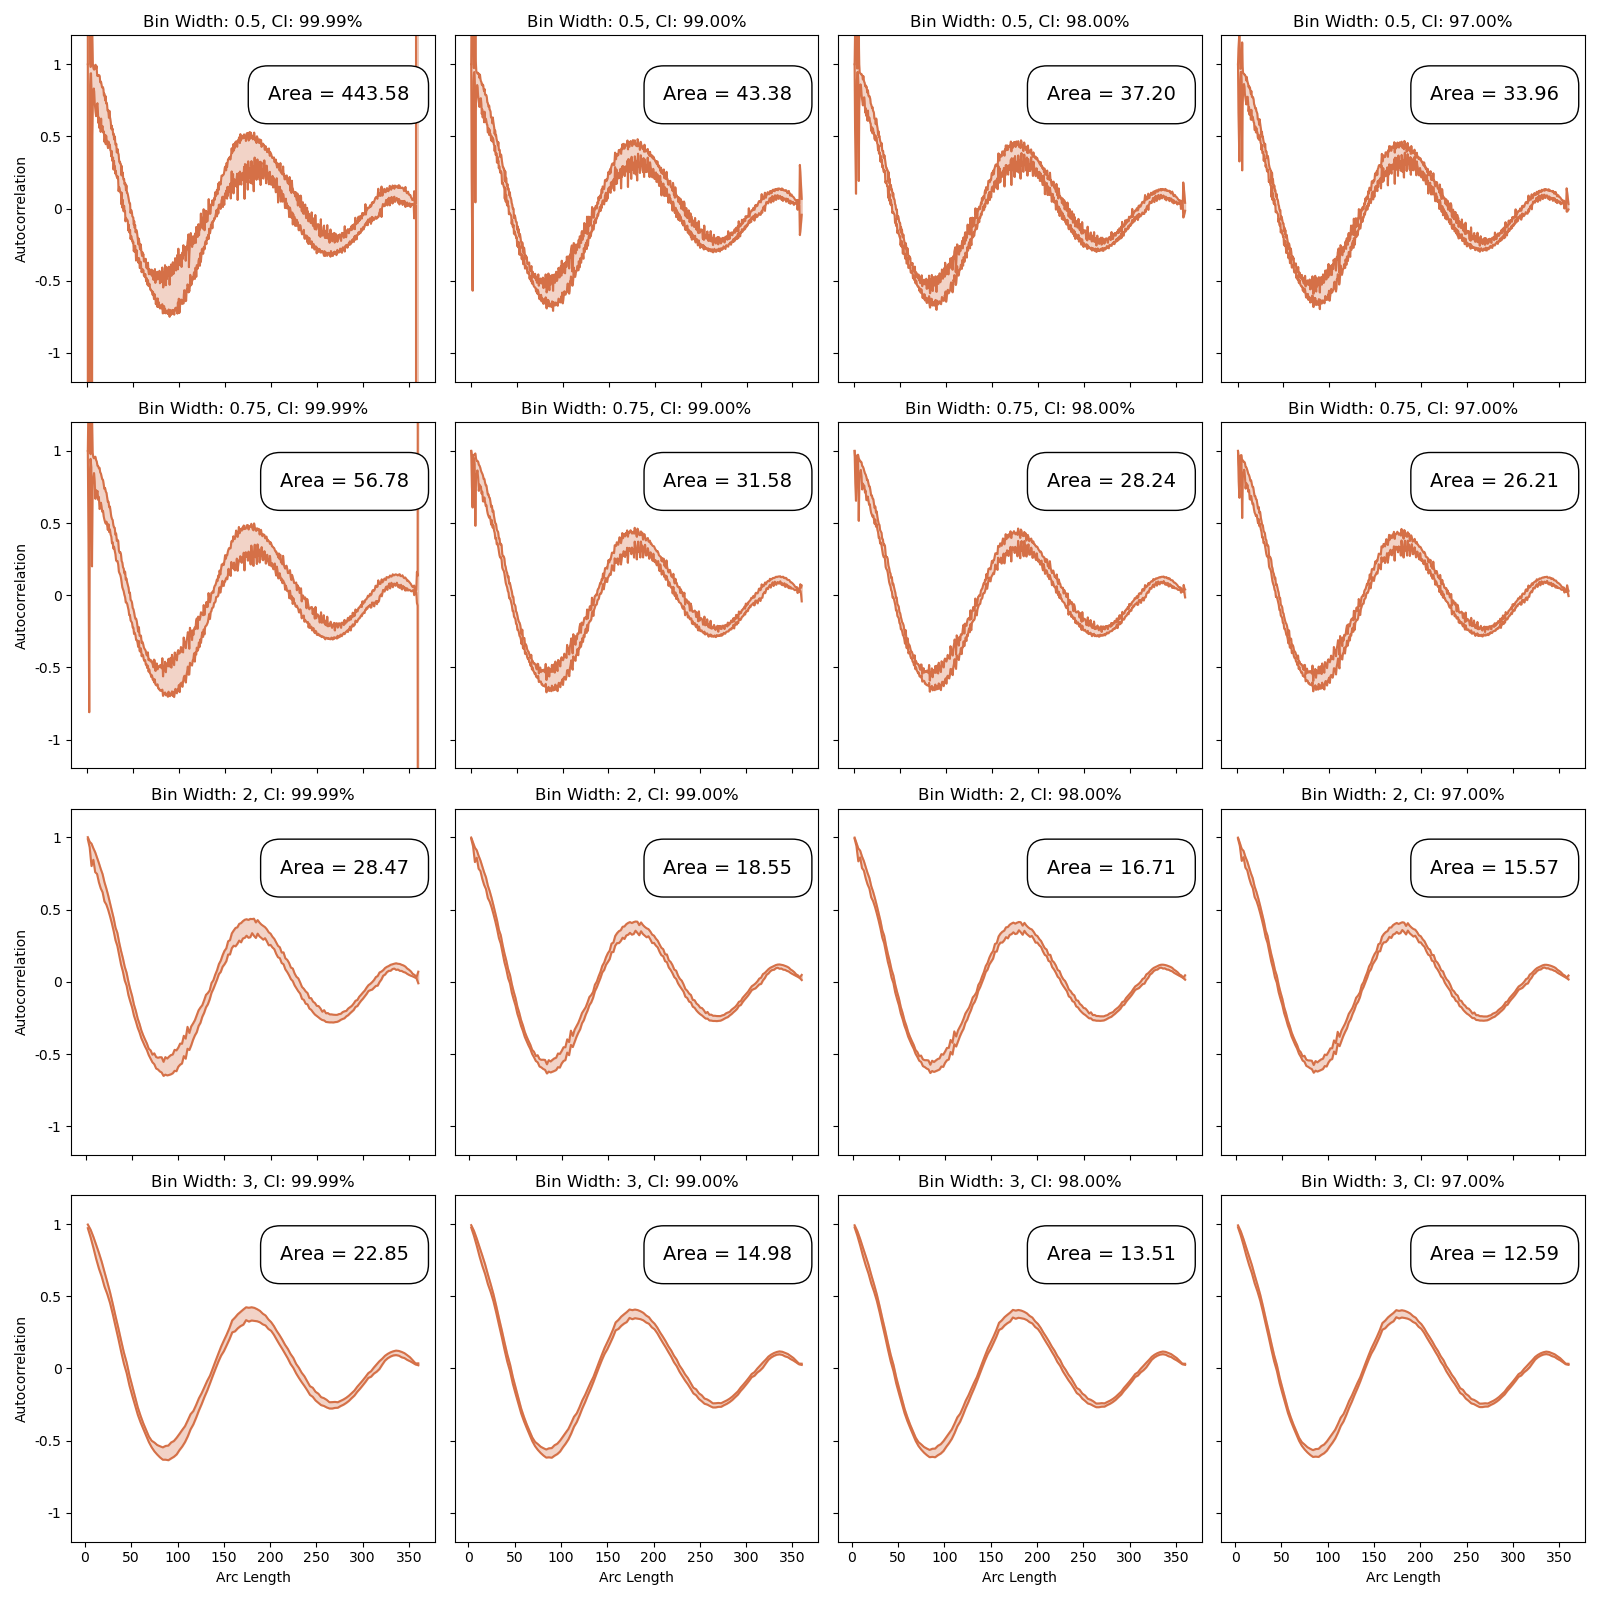
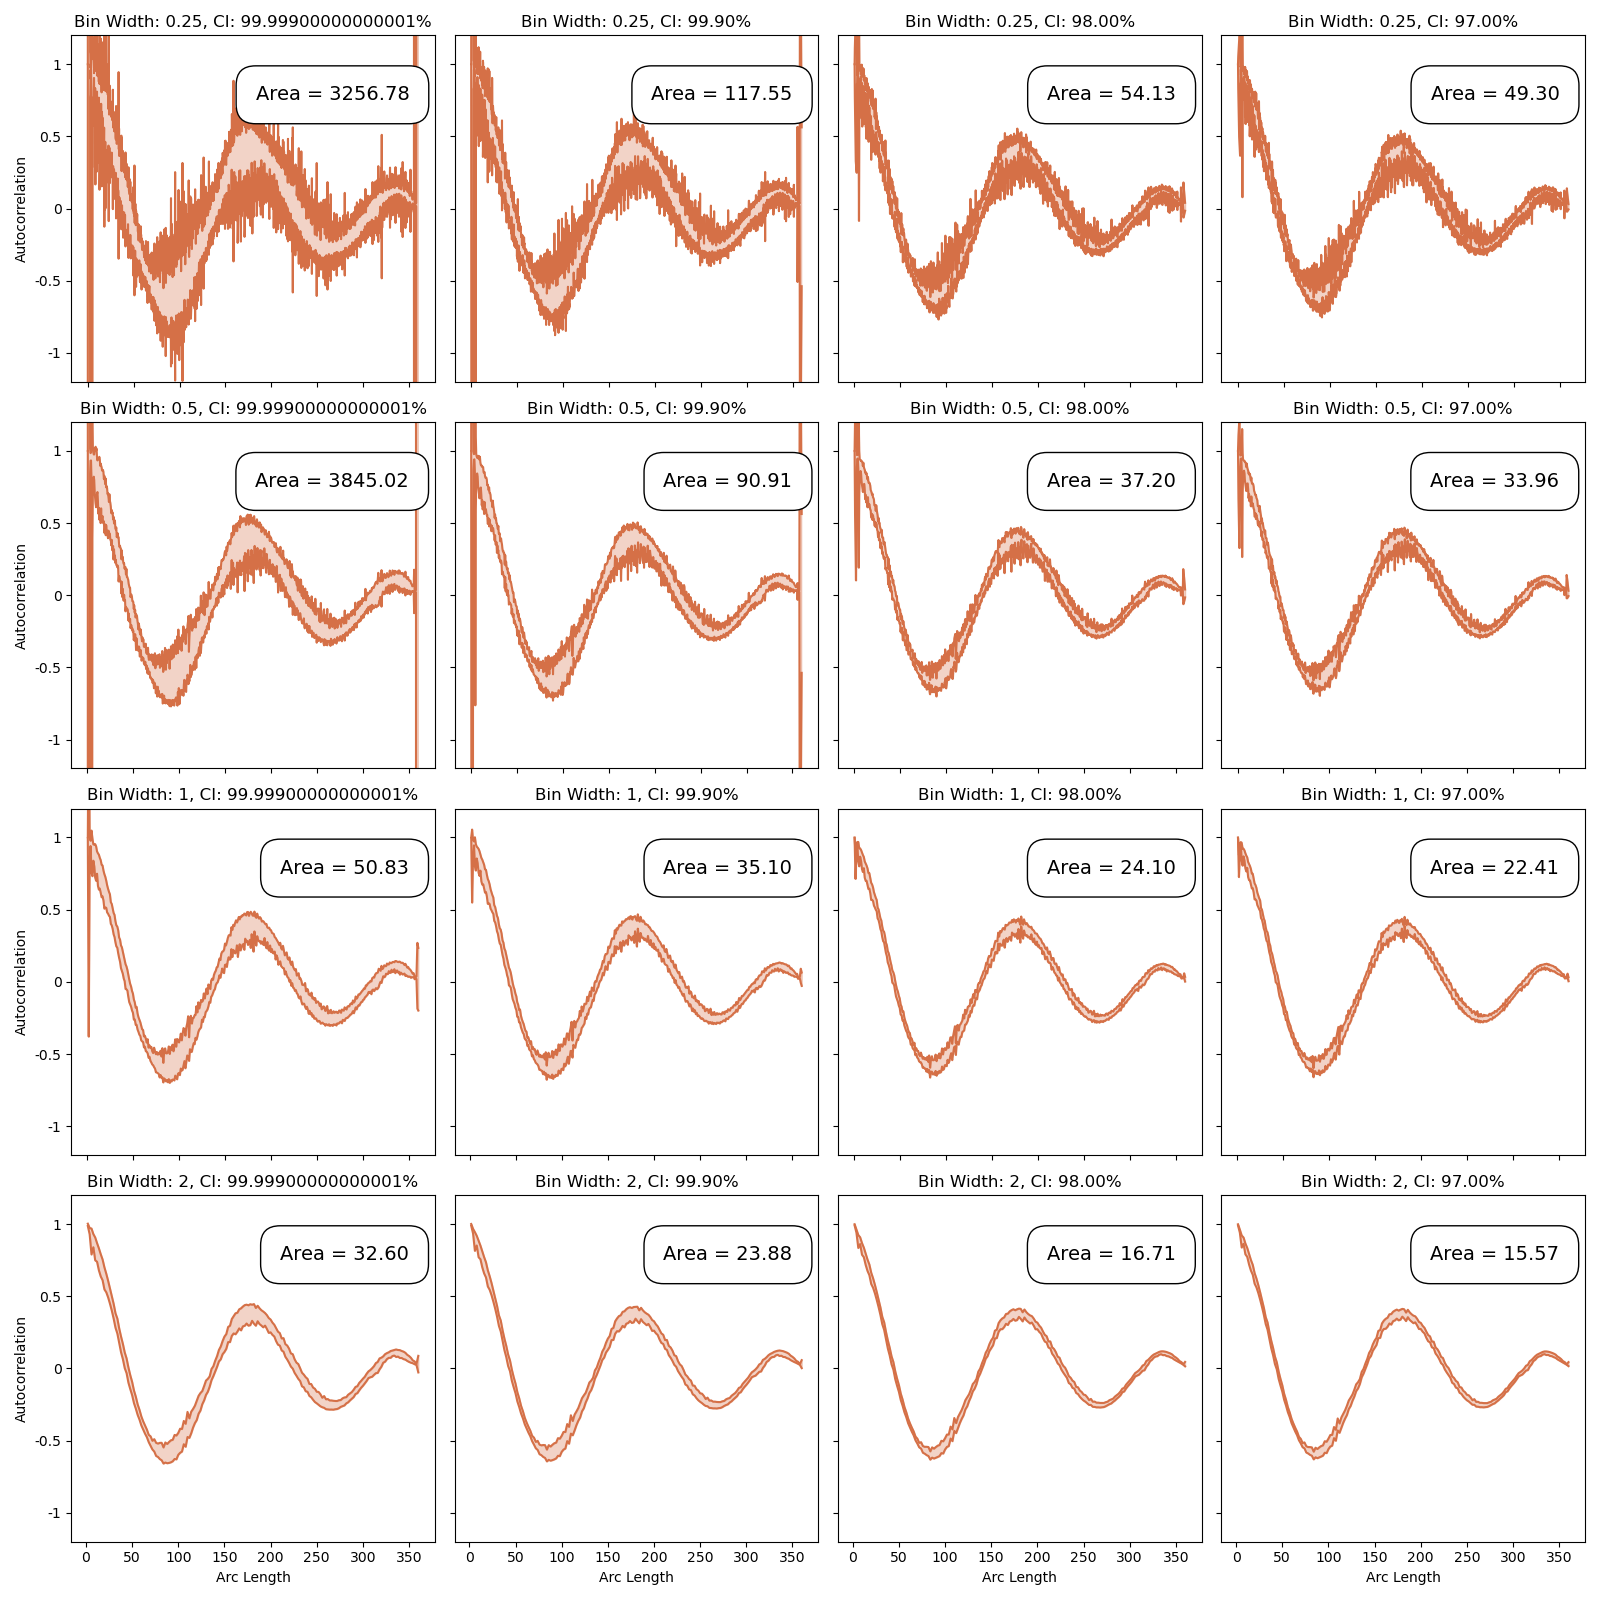
k_means now generates figure 4, a confusion matrix

diff --git a/src/k_means.py b/src/k_means.py
@@ -2,6 +2,11 @@ from sklearn.cluster import KMeans
 import polarAC_utils as pAC
 import numpy as np
 from sklearn import metrics
+import matplotlib.pyplot as plt
+import matplotlib
+from sklearn.metrics import confusion_matrix, ConfusionMatrixDisplay
+import stat_utils as SU
+
 
 # load the dataset
 def main():
@@ -11,7 +16,7 @@ def main():
     label_col, data_cols = ac_dataset.columns[0], ac_dataset.columns[1:len(ac_dataset.columns)]
     ac_X = np.array(ac_dataset[data_cols])
     ac_Y = np.array(ac_dataset[label_col])
-    ac_classifier = KMeans(n_clusters=4)
+    ac_classifier = KMeans(n_clusters=4, n_init=10)
     ac_classifier.fit(ac_X)
     labels_ac = ac_classifier.labels_
     AC_score = metrics.rand_score(ac_Y, labels_ac)
@@ -19,11 +24,51 @@ def main():
     data_cols2 = ['Area', 'Perim.', 'Major','Minor', 'Angl', 'Circ.', 'Median', 'AR', 'Round', 'Soliditye']
     shape_X = np.array(shape_dataset[data_cols2])
     shape_Y = np.array(shape_dataset['Ground truth crypt number '])
-    shape_classifier = KMeans(n_clusters=4)
+    shape_classifier = KMeans(n_clusters=4, n_init='auto')
     ac_classifier.fit(shape_X)
     labels_shape = ac_classifier.labels_
     shape_score = metrics.rand_score(ac_Y, labels_shape)
     print(AC_score, shape_score)
+
+    # labels don't match. true labels are 2-5, other labels are 0-3
+    labels_ac = [x+2 for x in labels_ac]
+    labels_shape = [x+2 for x in labels_shape]
+
+    #labels also aren't in the correct permutation
+    labels_ac_corrected = SU.transform_labels(ac_Y, labels_ac)
+    labels_shape_corrected = SU.transform_labels(ac_Y, labels_shape)
+
+    fig, (ax1, ax2) = plt.subplots(1, 2,layout="constrained", figsize=(10, 6.5))
+    #fig, (ax1, ax2) = plt.subplots(1, 2, figsize=(10, 5.75))
+    disp1 = ConfusionMatrixDisplay.from_predictions(ac_Y, labels_ac_corrected, normalize='true', ax=ax1, colorbar=False)
+    disp2 = ConfusionMatrixDisplay.from_predictions(shape_Y,labels_shape_corrected, normalize='true', ax=ax2, colorbar=False)
+
+
+    class_names = ['Two', 'Three', 'Four', 'Five']
+
+    fig.suptitle('Feature Number Classification Confusion Matrix' , fontsize=16, y=0.9)
+
+    ax1.set_title('Using statistics from autocorrelation curve', fontsize=12)
+    ax1.set_xticks(np.arange(len(class_names)))
+    ax1.set_xticklabels(class_names)
+    ax1.set_yticks(np.arange(len(class_names)))
+    ax1.set_yticklabels(class_names)
+    ax1.set_xlabel('Predicted label')
+    ax1.set_ylabel('True label')
+
+    # Plot the second matrix
+    ax2.set_title('Using shape descriptors', fontsize=12)
+    ax2.set_xticks(np.arange(len(class_names)))
+    ax2.set_xticklabels(class_names)
+    ax2.set_yticks(np.arange(len(class_names)))
+    ax2.set_yticklabels(class_names)
+    ax2.set_xlabel('Predicted label')
+    ax2.set_ylabel('True label')
+
+    cbar = fig.colorbar(matplotlib.cm.ScalarMappable(), ax=[ax1, ax2], shrink=0.6)
+    text = fig.text(.17,.07,f"Accuracy: {AC_score*100:.2f}%", fontsize=14, bbox=dict(facecolor='white', edgecolor='black', boxstyle='round,pad=1'))
+    text2 = fig.text(.628, .07, f"Accuracy: {shape_score*100:.2f}%", fontsize=14, bbox=dict(facecolor='white', edgecolor='black', boxstyle='round,pad=1'))
+    plt.savefig("..\\doc\\fig4.png")
 
 if __name__=="__main__":
     main()

diff --git a/src/generate_fig3.py b/src/generate_fig3.py
@@ -30,19 +30,19 @@ def main():
         print("No csv files in this directory to process.")
     else:
 
-        width_values = [0.5, .75, 2, 3]  # row in data
-        CI_values = [0.9999, 0.99, .98, .97]  # col in data
+        width_values = [0.25, .5, 1, 2]  # row in data
+        CI_values = [0.99999, 0.999, .98, .97]  # col in data
 
 
         for csv in csv_paths:
             AC_df = pAC.read_csv(csv)
-            correct_csv = AC_df.columns[0] == 'r_autocorreation' and AC_df.columns[1] == 'arc_length'
+            correct_csv = AC_df.columns[0] == 'r_autocorrelation' and AC_df.columns[1] == 'arc_length'
             # IGNORES files that don't have the correct headers
             if correct_csv:
                 arc_length.append(list(AC_df['arc_length']))
-                r_ac.append(list(AC_df['r_autocorreation']))
+                r_ac.append(list(AC_df['r_autocorrelation']))
             else:
-                print(csv, "has missing or incorrect headers. Headers should be: 'r_autocorreation', 'arc_length', 'num_features_sign_change'")
+                print(csv, "has missing or incorrect headers. Headers should be: 'r_autocorrelation', 'arc_length', 'num_features_sign_change'")
 
         fig,axs = plt.subplots(4, 4, figsize=(16, 16), sharey=True)
         upper_color, lower_color, middle_color = "#8000ff", "#029688", "#0066ff"
@@ -81,7 +81,10 @@ def main():
                 # Do the plotting
                 # Some bins are empty, overwriting bins with x_values, for which a confidence interval is calculable
                 bins = x_values
-                axs[i, j].set_title(f'Bin Width: {width}, CI: {ci*100:.2f}%')
+                if ci >= .9999:
+                    axs[i, j].set_title(f'Bin Width: {width}, CI: {ci * 100}%')
+                else:
+                    axs[i, j].set_title(f'Bin Width: {width}, CI: {ci*100:.2f}%')
                 axs[i, j].plot(bins, CI_lower_bound, label='Lower', color=color)
                 axs[i, j].plot(bins, CI_upper_bound, label='Upper', color=color)
                 axs[i, j].fill_between(bins, CI_upper_bound, CI_lower_bound, color=color, alpha=0.3, interpolate=True)

diff --git a/src/generate_confidence_intervals.py b/src/generate_confidence_intervals.py
@@ -4,6 +4,7 @@ import pandas as pd
 import os
 import argparse
 import polarAC_utils as pAC
+import stat_utils as SU
 import matplotlib.pyplot as plt
 
 # This file does the statistical analysis, and exports results into a csv
@@ -30,7 +31,7 @@ def main():
     else:
 
         width = args.width
-        bins = range(width, 360+width, width)
+        bins = np.arange(width, 360 + width, width)
         # Ac values for each bin are stored in a dict, with the key being the upper edge of the bin (2 to 360)
         # Each AC value is added to the empty list in the dict
         AC_values = {key: [] for key in bins}
@@ -39,11 +40,11 @@ def main():
 
         for csv in csv_paths:
             AC_df = pAC.read_csv(csv)
-            correct_csv = AC_df.columns[0] == 'r_autocorreation' and AC_df.columns[1] == 'arc_length'
+            correct_csv = AC_df.columns[0] == 'r_autocorrelation' and AC_df.columns[1] == 'arc_length'
             # IGNORES files that don't have the correct headers
             if correct_csv:
                 arc_length.append(list(AC_df['arc_length']))
-                r_ac.append(list(AC_df['r_autocorreation']))
+                r_ac.append(list(AC_df['r_autocorrelation']))
             else:
                 print(csv, "has missing or incorrect headers. Headers should be: 'r_autocorreation', 'arc_length', 'num_features_sign_change'")
 
@@ -51,11 +52,13 @@ def main():
         for dataset_tuple in zip(arc_length, r_ac):
             for arc, r_ac in zip(dataset_tuple[0], dataset_tuple[1]):
                 key = (arc//width+1)*width # This rounds up. i.e., 2 becomes 4
+                if key>360:
+                    key=360
                 AC_values[key].append(r_ac)
 
         #print(AC_values.keys())
         for key in list(AC_values.keys()):
-            lb, ub = pAC.confidence_interval(AC_values[key], confidence=confidence_level)
+            lb, ub = SU.confidence_interval(AC_values[key], confidence=confidence_level)
             CI_lower_bound.append(lb)
             CI_upper_bound.append(ub)
 

diff --git a/src/stat_utils.py b/src/stat_utils.py
@@ -1,5 +1,6 @@
 import numpy as np
 from scipy import stats
+from itertools import permutations
 
 
 def get_numerical_tangent_x_intercept(x, y, degrees_to_sample=20):
@@ -72,3 +73,25 @@ def area_between_curves(x1, y1, x2, y2):
         a1 = np.trapz(y1,x1)
         a2 = np.trapz(y2,x2)
     return abs(a1-a2)
+
+def transform_labels(ds_w_correct_labels, other_ds, labels=[2,3,4,5]):
+    """
+    Scikit learn randomly assigns zero-indexed labels, which much be mapped back onto the original labels
+    :param ds_w_correct_labels:
+    :param other_ds:
+    :param labels_:
+    :return:
+    """
+    highest_score = -1
+    correct_permutation = labels  # overwritten in below
+    all_permutations = list(permutations(labels))
+    for perm in all_permutations:
+        dict_ = dict(zip(list(perm), labels))
+        other_ds_transformed = [dict_[x] for x in other_ds]
+        both = zip(other_ds_transformed, ds_w_correct_labels)
+        score = sum([1 if x == y else 0 for x, y in both])
+        if score >= highest_score:
+            highest_score = score
+            correct_permutation = other_ds_transformed
+
+    return correct_permutation
